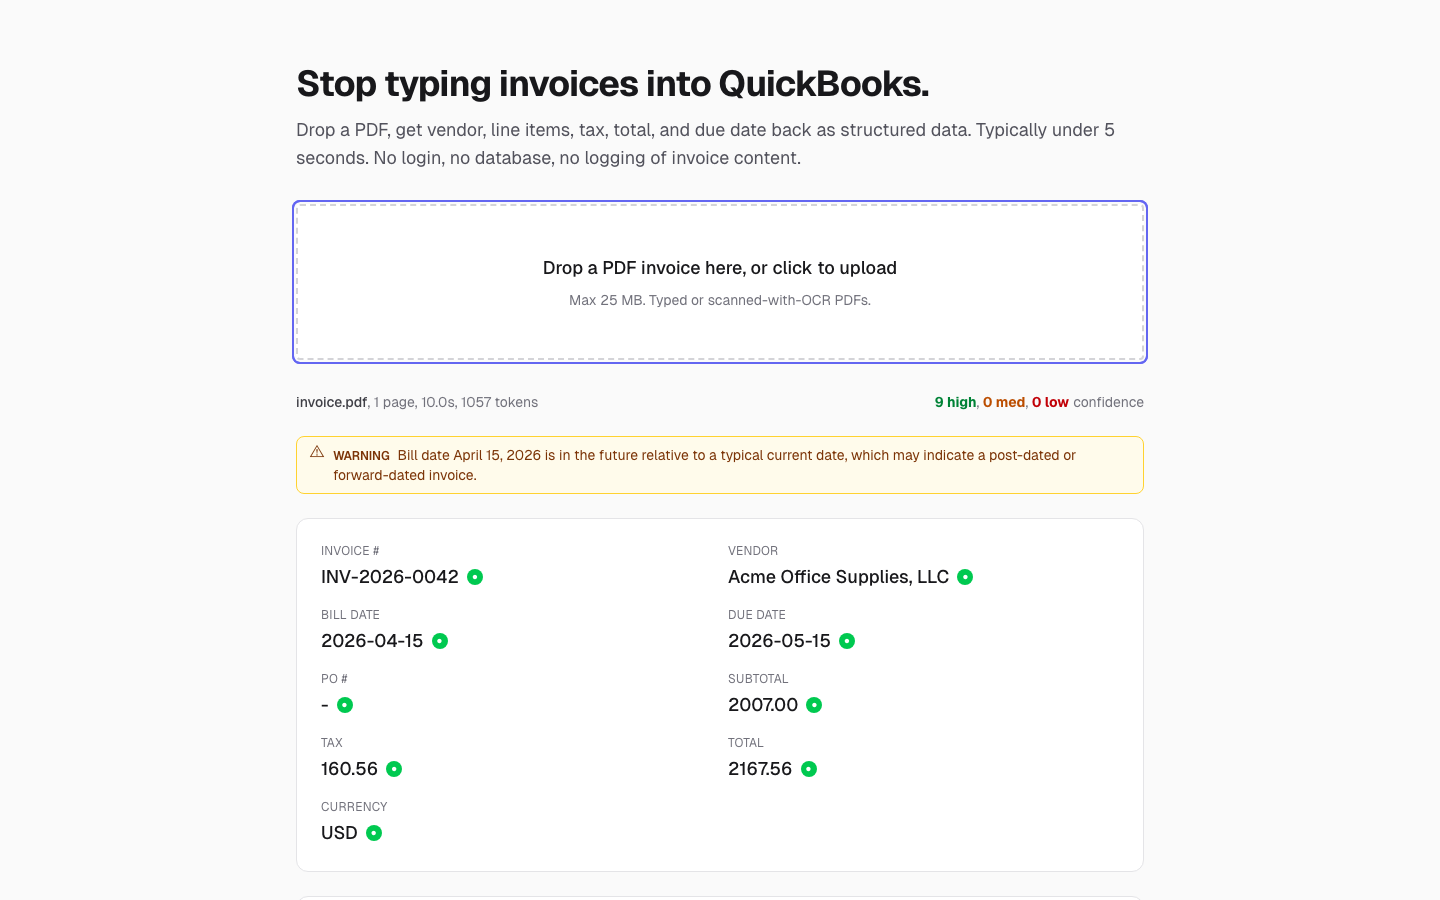
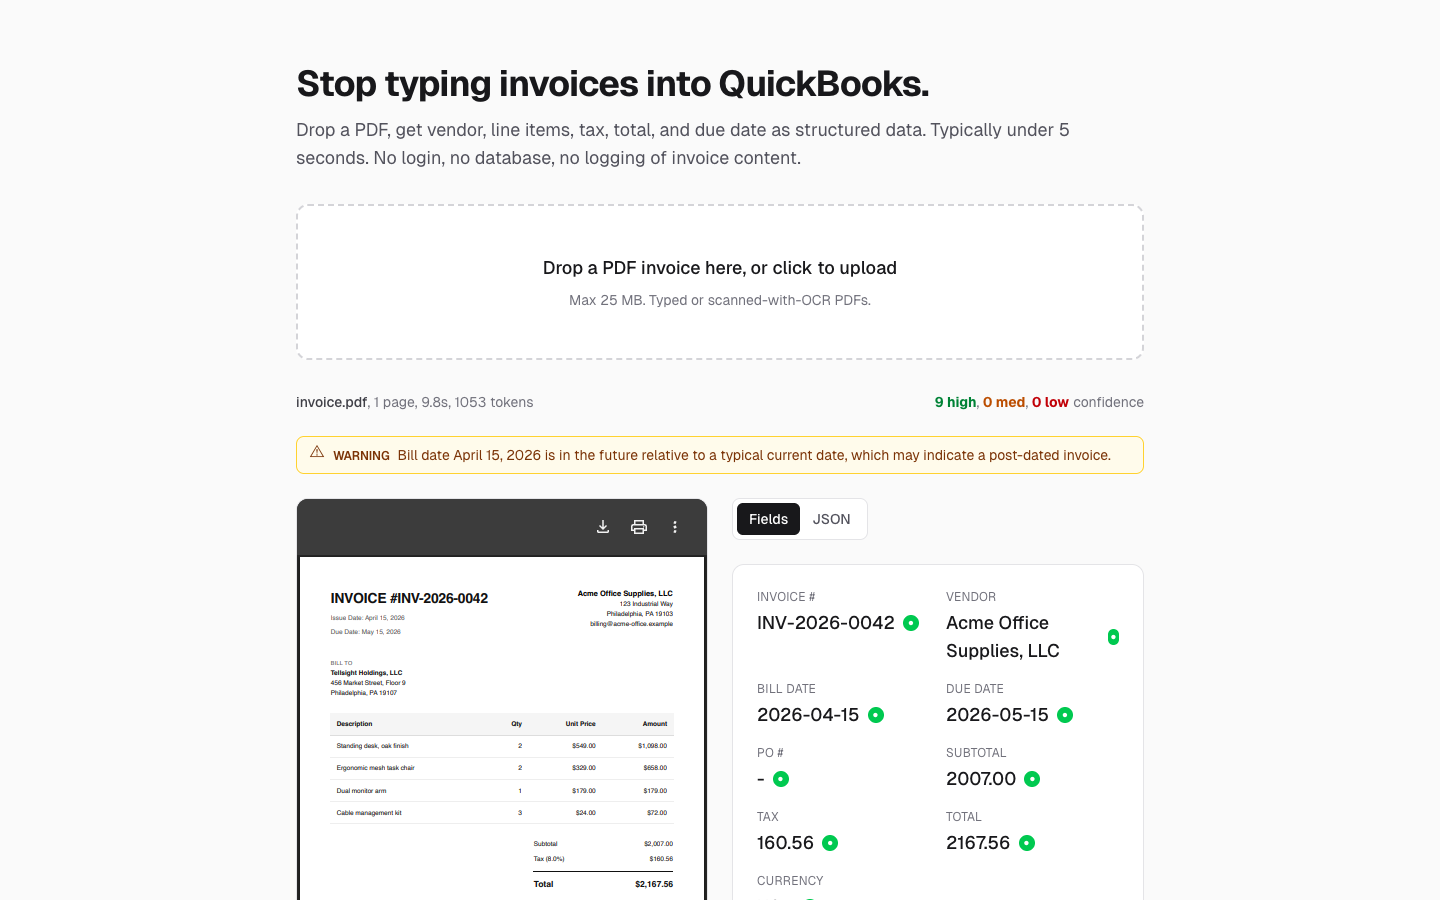
Refresh README screenshots, add JSON-view shot, fix headless PDF rendering
The extract-success.png and csv-export.png screenshots were captured
before the side-by-side PDF preview and JSON tab features landed, so
they showed the old single-column layout. Recapture against current
production so the README reflects what the live demo actually serves.

Two changes to scripts/screenshots.mjs to make this work:

- Switch the Playwright launcher from default Chromium to
  channel: 'chrome'. Headless Chromium ships without the PDF viewer
  plugin, so the iframe renders blank in captures even though it works
  in real browsers. System Chrome has the viewer, so the iframe shows
  the actual invoice PDF in screenshots.

- Add captureJsonView between captureExtraction and captureCsvExport.
  Clicks the JSON tab, captures, then resets to Fields tab so the
  subsequent CSV button hover happens against the standard layout.

README gallery promotes extract-success.png to a full-width hero shot
(it's the new killer UX moment, side-by-side PDF and fields), and the
2x2 row swaps the prior single-column extract image for the new JSON
view shot alongside the CSV export.

diff --git a/README.md b/README.md
@@ -18,9 +18,13 @@ There's no login or database. PDFs process in memory inside a single Vercel Func
   <img src="public/screenshots/landing.png" alt="InvoiceFlow landing page with dropzone for PDF upload" width="100%">
 </p>
 
+<p align="center">
+  <img src="public/screenshots/extract-success.png" alt="Side-by-side PDF preview and extracted fields with confidence dots" width="100%">
+</p>
+
 <table>
 <tr>
-<td width="50%"><img src="public/screenshots/extract-success.png" alt="Successful invoice extraction with confidence dots and reasoning"></td>
+<td width="50%"><img src="public/screenshots/extract-json.png" alt="JSON view tab showing the api/extract response shape"></td>
 <td width="50%"><img src="public/screenshots/csv-export.png" alt="CSV export buttons for QuickBooks and Xero schemas"></td>
 </tr>
 <tr>
